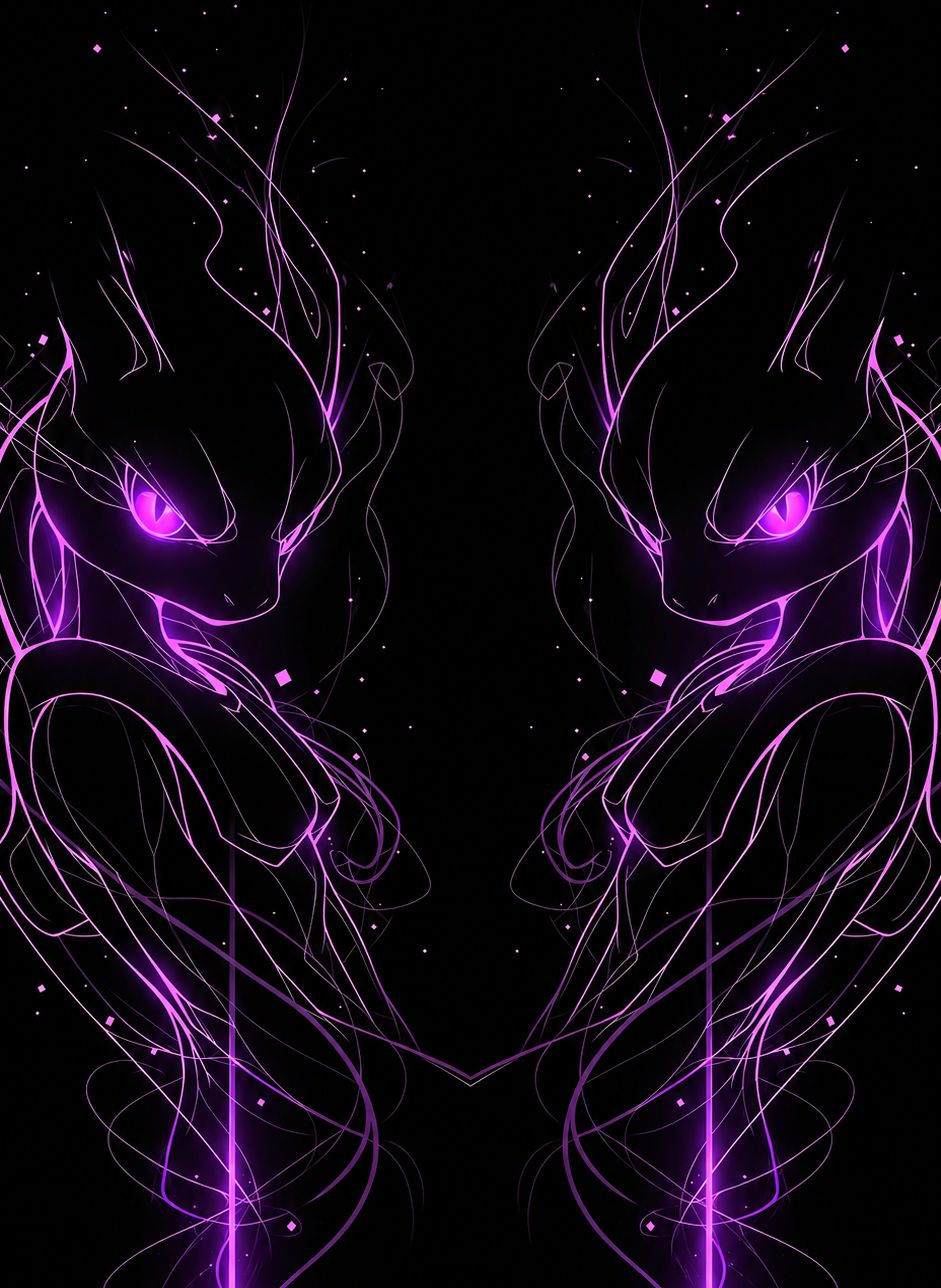
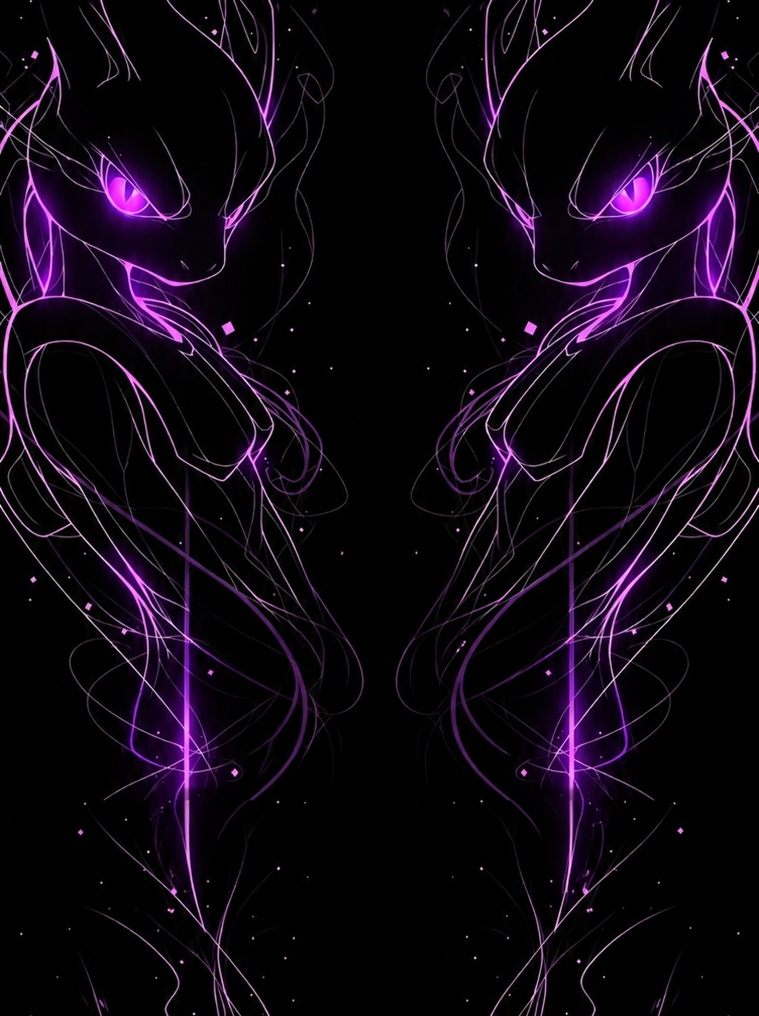
perf: make bg infinitly scrollable, but stay at fixed option for now
bg can be infinite scrollable now non-fixed with contain and repeat option if desired

diff --git a/style.css b/style.css
@@ -7,10 +7,11 @@ body {
     flex-direction: column;
     min-height: 100svh;
 
-    background-image: url('./assets/img/bg-desktop.jpg');
+    background-image: url('./assets/img/bg-mobile.jpg');
+
     background-attachment: fixed;
     background-size: cover;
-    background-position: center;
+    background-position: top;
     background-repeat: no-repeat;
 }
 
@@ -45,9 +46,8 @@ main {
     }
 }
 
-
-@media screen and (max-width: 500px) {
+@media screen and (min-width: 500px) {
     body {
-        background-image: url('./assets/img/bg-mobile.jpg');
+        background-image: url('./assets/img/bg-desktop.jpg');
     }
 }
